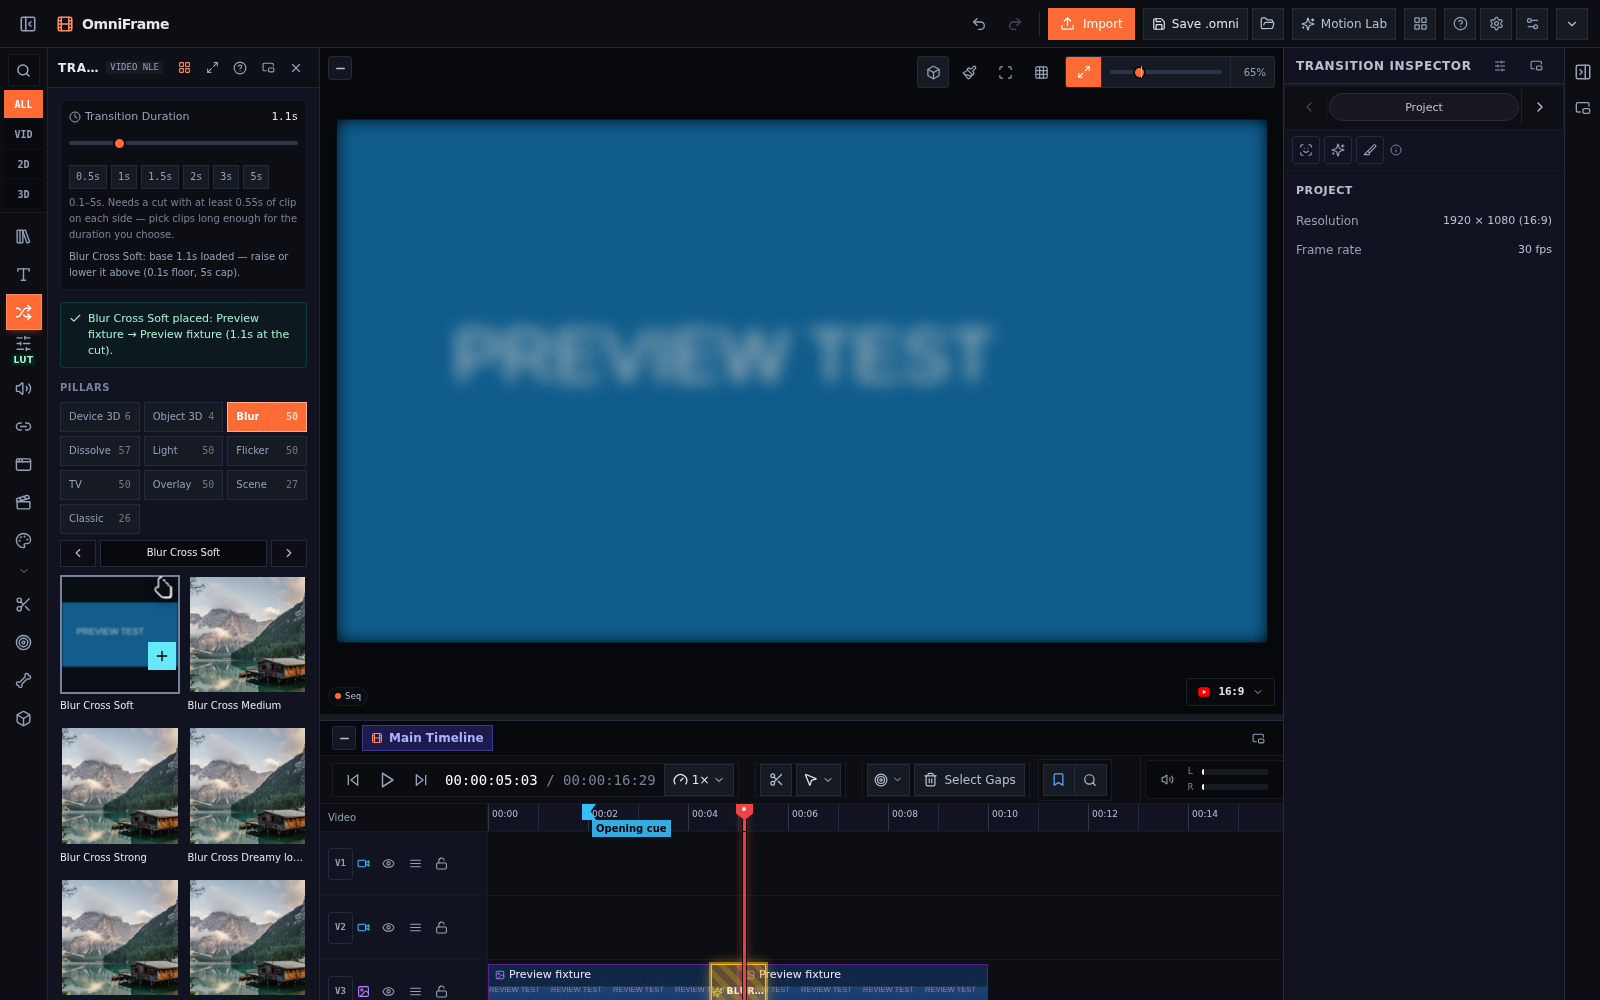
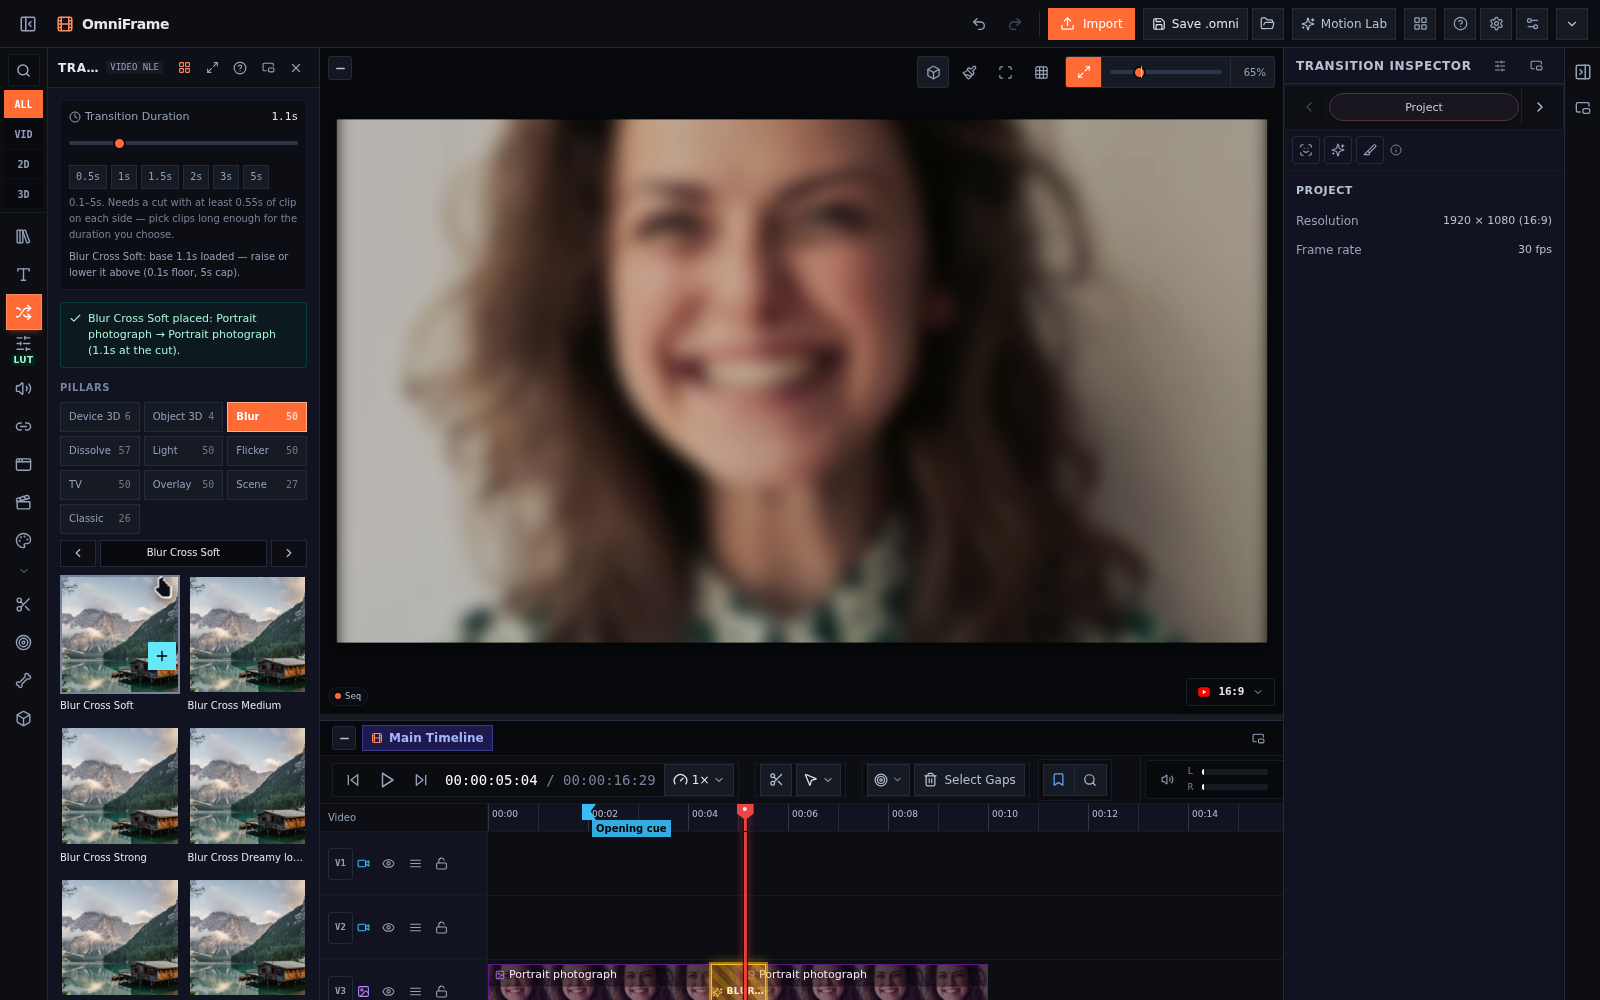
Use Pexels photos for effect previews and restore idle thumbnails

diff --git a/src/components/EffectsPanel.tsx b/src/components/EffectsPanel.tsx
@@ -67,7 +67,7 @@ function loadLutPreviewImage() {
       image.decoding = 'async'
       image.onload = () => resolve(image)
       image.onerror = () => reject(new Error('LUT preview image could not be loaded'))
-      image.src = '/assets/room/clean_room_background.png'
+      image.src = '/assets/effect-subjects/pexels-portrait.jpg'
     }).catch((error) => {
       lutPreviewImagePromise = null
       throw error
@@ -80,8 +80,6 @@ function LutPreview({
   id,
   file,
   cubeText,
-  swatch,
-  category,
 }: {
   id: string
   file?: string
@@ -129,7 +127,7 @@ function LutPreview({
         context.putImageData(pixels, 0, 0)
         if (active) setPreviewUrl(canvas.toDataURL('image/jpeg', 0.84))
       } catch {
-        // Keep the color swatch fallback if a local preview/LUT cannot load.
+        // Keep the source photograph if a local LUT cannot load.
       }
     })()
     return () => { active = false }
@@ -140,10 +138,8 @@ function LutPreview({
       {previewUrl ? (
         <img data-testid={`lut-preview-${id}`} src={previewUrl} alt="" className="absolute inset-0 h-full w-full object-cover" />
       ) : (
-        <span className="absolute inset-0" style={{ background: `linear-gradient(135deg, ${swatch || 'rgb(78, 104, 130)'} 0%, #182331 58%, #0c1018 100%)` }} />
+        <img src="/assets/effect-subjects/pexels-portrait.jpg" alt="" className="absolute inset-0 h-full w-full object-cover" />
       )}
-      <span className="absolute inset-x-0 bottom-0 h-5 bg-gradient-to-t from-black/75 to-transparent" />
-      {category && <span className="absolute bottom-1 left-1.5 text-[9px] font-semibold uppercase tracking-wider text-white/90" aria-hidden="true">{category}</span>}
     </span>
   )
 }
@@ -1136,7 +1132,7 @@ function FxCatalogBrowser() {
       <div className="grid max-h-[38vh] grid-cols-[repeat(auto-fill,minmax(92px,1fr))] gap-1 overflow-y-auto pr-0.5" data-testid="fx-catalog-grid">
         {entries.slice(0, limit).map((e) => <div key={e.id} className="relative">
           <PreviewSquare id={`fx-tile-${e.id}`} name={e.name} dragId={e.id} effect={e.patch as ClipEffect}
-            image={`/assets/effect-subjects/${e.cat === 'color' || e.cat === 'blur' || e.cat === 'key' ? 'portrait' : e.cat === 'light' || e.cat === 'glitch' || e.cat === 'Glitch NG' ? 'night' : 'landscape'}.jpg`}
+            image={`/assets/effect-subjects/${/face|portrait|skin|beauty|eye/i.test(e.name) || ['color', 'blur', 'key', 'light'].includes(e.cat) ? 'pexels-portrait' : 'pexels-car'}.jpg`}
             preview={() => { if (selectedClipId) previewClipEffect(selectedClipId, e.name, e.patch as ClipEffect); else previewEffectLayer(e.name, e.patch as ClipEffect) }}
             add={() => { addFxAdjustment(e.id, { start: useEditor.getState().playhead, duration: 2 }); requestRightSection('effects') }} />
           <button type="button" aria-label={`Favorite ${e.name}`} aria-pressed={favorites.includes(e.id)} onClick={() => toggleFavorite(e.id)} className="absolute top-1 left-1 h-6 w-6 rounded bg-black/60 text-amber-300">{favorites.includes(e.id) ? '★' : '☆'}</button>

diff --git a/src/components/PreviewSquare.tsx b/src/components/PreviewSquare.tsx
@@ -3,6 +3,8 @@ import { Plus } from 'lucide-react'
 import { useEditor } from '../store'
 import type { ClipEffect } from '../types'
 import { applyPixelGrade } from '../lib/pixelGrade'
+import { effectFilterString } from '../lib/effectFilter'
+import { pfxMotionBlurSamples } from '../lib/proceduralFx'
 
 /** Only the active square copies the program monitor. Idle cards draw once. */
 export function PreviewSquare({ id, name, image, effect, preview, add, dragId }: {
@@ -16,23 +18,35 @@ export function PreviewSquare({ id, name, image, effect, preview, add, dragId }:
   const dragging = useRef(false)
   const resume = useRef(false)
   useEffect(() => {
+    if (active) return
     let disposed = false
     const img = new Image()
     img.onload = () => {
-      if (disposed || !canvas.current || owner.current) return
+      if (disposed || !canvas.current) return
       const c = canvas.current, ctx = c.getContext('2d')!
       const size = Math.min(img.naturalWidth, img.naturalHeight)
+      ctx.clearRect(0, 0, c.width, c.height)
+      ctx.save()
+      ctx.filter = effectFilterString(effect) || 'none'
       ctx.drawImage(img, (img.naturalWidth-size)/2, (img.naturalHeight-size)/2, size, size, 0, 0, c.width, c.height)
+      // A staged horizontal pan makes temporal blur legible in an idle photograph.
+      // Use the same temporal sample weights as project rendering; never alter the preset.
+      for (const sample of pfxMotionBlurSamples(effect, 1, 30)) {
+        ctx.globalAlpha = sample.alpha
+        ctx.drawImage(img, (img.naturalWidth-size)/2, (img.naturalHeight-size)/2, size, size,
+          (sample.time - 1) * 240, 0, c.width, c.height)
+      }
+      ctx.restore()
       if (effect) applyPixelGrade(c, effect, 17)
     }
     img.src = image
     return () => { disposed = true }
-  }, [image, effect])
+  }, [image, effect, active])
   useEffect(() => {
     let raf = 0
     const paint = () => {
       const s = useEditor.getState(), p = s.visualPreview
-      if (!p || p.id !== owner.current) { setActive(false); return }
+      if (!p || p.id !== owner.current) { owner.current = null; setActive(false); return }
       const source = document.querySelector<HTMLCanvasElement>('[data-testid="program-preview-canvas"]')
       const c = canvas.current
       if (source && c) {

diff --git a/src/lib/playback.ts b/src/lib/playback.ts
@@ -1,3 +1,4 @@
+import { effectFilterString } from './effectFilter'
 import { blendAt } from './blendModes'
 import { proxySource } from './mediaProxies'
 import { shouldRenderPreview } from './previewPerformance'
@@ -185,19 +186,6 @@ function activeClipOnTrack(clips: Clip[], trackId: string, time: number): Clip |
   )
 }
 
-function effectFilterString(effect?: ClipEffect): string {
-  if (!effect) return ''
-  const filters: string[] = []
-  if (typeof effect.brightness === 'number' && effect.brightness !== 1) filters.push(`brightness(${effect.brightness})`)
-  if (typeof effect.contrast === 'number' && effect.contrast !== 1) filters.push(`contrast(${effect.contrast})`)
-  if (typeof effect.saturation === 'number' && effect.saturation !== 1) filters.push(`saturate(${effect.saturation})`)
-  if (typeof effect.blur === 'number' && effect.blur > 0) filters.push(`blur(${effect.blur}px)`)
-  if (typeof effect.grayscale === 'number' && effect.grayscale > 0) filters.push(`grayscale(${effect.grayscale})`)
-  if (typeof effect.invert === 'number' && effect.invert > 0) filters.push(`invert(${effect.invert})`)
-  if (typeof effect.sepia === 'number' && effect.sepia > 0) filters.push(`sepia(${effect.sepia})`)
-  if (typeof effect.hueRotate === 'number' && effect.hueRotate > 0) filters.push(`hue-rotate(${effect.hueRotate}deg)`)
-  return filters.join(' ')
-}
 
 /** Preserve a parent compound's filter while adding this clip's own filters. */
 function applyClipFilter(ctx: CanvasRenderingContext2D, effect?: ClipEffect) {

diff --git a/src/lib/effectFilter.ts b/src/lib/effectFilter.ts
@@ -1,0 +1,17 @@
+import type { ClipEffect } from '../types'
+
+/** Shared canvas filters for program rendering and photographic catalog previews. */
+export function effectFilterString(effect?: ClipEffect): string {
+  if (!effect) return ''
+  const filters: string[] = []
+  if (typeof effect.brightness === 'number' && effect.brightness !== 1) filters.push(`brightness(${effect.brightness})`)
+  if (typeof effect.contrast === 'number' && effect.contrast !== 1) filters.push(`contrast(${effect.contrast})`)
+  if (typeof effect.saturation === 'number' && effect.saturation !== 1) filters.push(`saturate(${effect.saturation})`)
+  if (typeof effect.blur === 'number' && effect.blur > 0) filters.push(`blur(${effect.blur}px)`)
+  if (typeof effect.grayscale === 'number' && effect.grayscale > 0) filters.push(`grayscale(${effect.grayscale})`)
+  if (typeof effect.invert === 'number' && effect.invert > 0) filters.push(`invert(${effect.invert})`)
+  if (typeof effect.sepia === 'number' && effect.sepia > 0) filters.push(`sepia(${effect.sepia})`)
+  if (typeof effect.hueRotate === 'number' && effect.hueRotate > 0) filters.push(`hue-rotate(${effect.hueRotate}deg)`)
+  return filters.join(' ')
+}
+

diff --git a/continue.md b/continue.md
@@ -1,3 +1,21 @@
+## 2026-11-09 — photographic thumbnail correction
+
+Effect catalog subjects now use two bundled Pexels photographs: a portrait for
+face/skin/beauty, color, blur and lighting; a car for glitch and other motion.
+Idle thumbnails apply shared canvas filters and raster grading before selection.
+Motion blur demonstrates shared temporal sample weights on a staged photo pan.
+LUT previews use the portrait, including their loading/error fallback, without
+category text over the picture. Source URLs, licenses and SHA-256 hashes are in
+`public/assets/effect-subjects/credits.json`.
+
+Fixed idle photo restoration after adding an effect or stopping an audition.
+Browser coverage includes photo restoration, Gaussian/temporal blur pixel changes,
+scrubbing, add/double-click, menus and live MCP. Typecheck and production build
+pass. Screenshots: `qa-output/square-preview/{glitch-photos,blur-photos}.png`.
+Idle cards are representative stills, not exhaustive temporal/3D effect renders;
+active auditions continue to mirror actual project footage. Full catalog visual
+acceptance and the earlier outstanding editor tasks remain open.
+
 ## 2026-11-09 — square previews, 300K recipes and timeline audit
 
 Square effect/transition cards mirror active program auditions, expose a scrubber,

diff --git a/reports/FEATURES.md b/reports/FEATURES.md
@@ -1,3 +1,21 @@
+## 2026-11-09 — photographic thumbnail correction
+
+Effect catalog subjects now use two bundled Pexels photographs: a portrait for
+face/skin/beauty, color, blur and lighting; a car for glitch and other motion.
+Idle thumbnails apply shared canvas filters and raster grading before selection.
+Motion blur demonstrates shared temporal sample weights on a staged photo pan.
+LUT previews use the portrait, including their loading/error fallback, without
+category text over the picture. Source URLs, licenses and SHA-256 hashes are in
+`public/assets/effect-subjects/credits.json`.
+
+Fixed idle photo restoration after adding an effect or stopping an audition.
+Browser coverage includes photo restoration, Gaussian/temporal blur pixel changes,
+scrubbing, add/double-click, menus and live MCP. Typecheck and production build
+pass. Screenshots: `qa-output/square-preview/{glitch-photos,blur-photos}.png`.
+Idle cards are representative stills, not exhaustive temporal/3D effect renders;
+active auditions continue to mirror actual project footage. Full catalog visual
+acceptance and the earlier outstanding editor tasks remain open.
+
 ## 2026-11-09 — square previews, 300K recipes and timeline audit
 
 Square effect/transition cards mirror active program auditions, expose a scrubber,

diff --git a/reports/STATE.md b/reports/STATE.md
@@ -1,3 +1,21 @@
+## 2026-11-09 — photographic thumbnail correction
+
+Effect catalog subjects now use two bundled Pexels photographs: a portrait for
+face/skin/beauty, color, blur and lighting; a car for glitch and other motion.
+Idle thumbnails apply shared canvas filters and raster grading before selection.
+Motion blur demonstrates shared temporal sample weights on a staged photo pan.
+LUT previews use the portrait, including their loading/error fallback, without
+category text over the picture. Source URLs, licenses and SHA-256 hashes are in
+`public/assets/effect-subjects/credits.json`.
+
+Fixed idle photo restoration after adding an effect or stopping an audition.
+Browser coverage includes photo restoration, Gaussian/temporal blur pixel changes,
+scrubbing, add/double-click, menus and live MCP. Typecheck and production build
+pass. Screenshots: `qa-output/square-preview/{glitch-photos,blur-photos}.png`.
+Idle cards are representative stills, not exhaustive temporal/3D effect renders;
+active auditions continue to mirror actual project footage. Full catalog visual
+acceptance and the earlier outstanding editor tasks remain open.
+
 ## 2026-11-09 — square previews, 300K recipes and timeline audit
 
 Square effect/transition cards mirror active program auditions, expose a scrubber,
